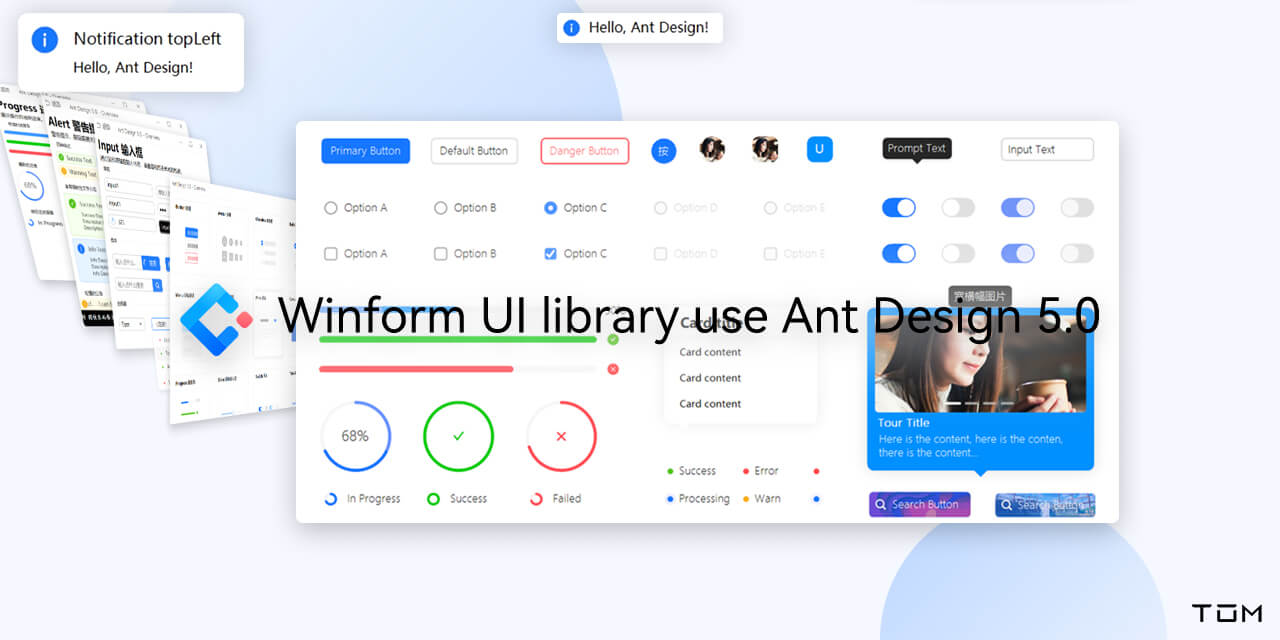
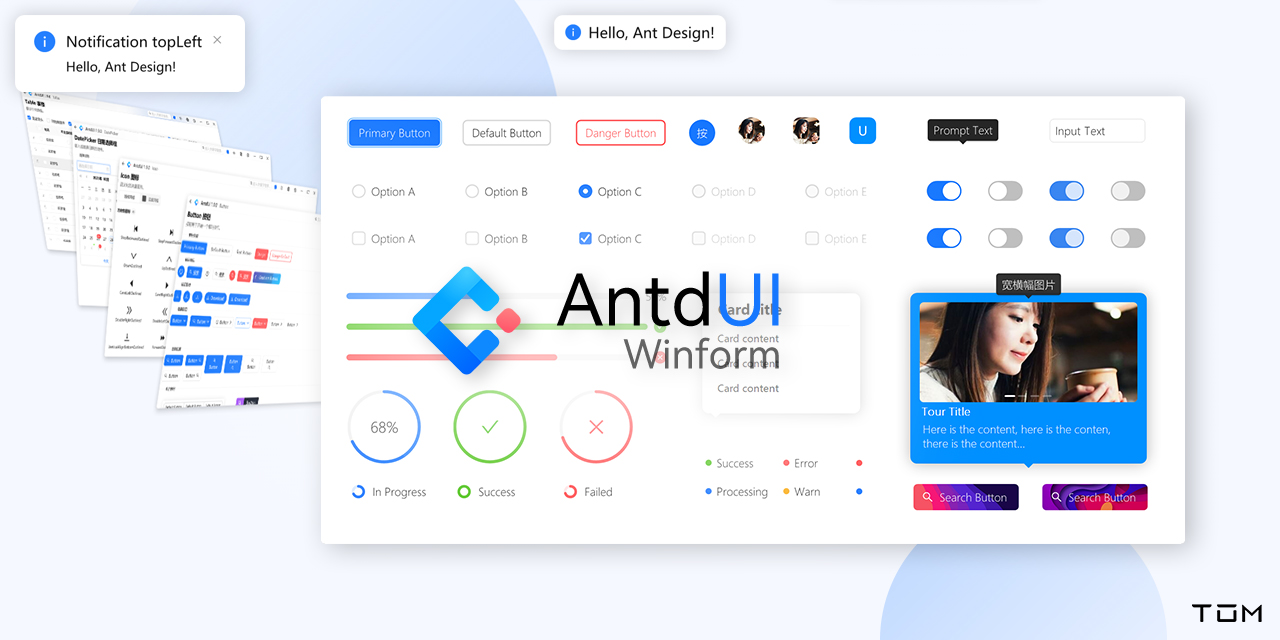
🦄 Beautiful AntdUI

diff --git a/profile/README.md b/profile/README.md
@@ -1,22 +1,25 @@
-![横幅](/profile/img/banner.png?raw=true)
+![Banner Dark](img/bannerdark.png?raw=true#gh-dark-mode-only)
+![Banner Light](img/banner.png?raw=true#gh-light-mode-only)
 
-## Ant Design UI
-**Winform 界面库** 使用 Ant Design 5.0 设计语言
+## AntdUI
+基于 Ant Design 设计语言的 WinForm UI 界面库，致力于将现代美观的前端设计风格带入到桌面应用程序中。采用纯GDI绘图，不需任何图片资源，全面支持AOT
 
-![demo](/profile/img/ant.jpg?raw=true)
+![demo](img/ant.jpg?raw=true)
 
 ### ✨特性
 
-- 🌈 纯GDI绘制，没有图片，支持AOT
-- 🎨 高质量绘图，高性能动画
-- 🚀 Winform上最阴影的阴影效果
-- 📦 无边框窗口，拥有原生窗口特性
-- 💎 3D翻转效果
-- 👚 主题配置
-- 🦜 SVG矢量图
-- 👓 DPI适配
+- 🌈 现代化的设计风格
+- 🎨 精细绘制与流畅动画
+- 🚀 在 Winform 上呈现最佳阴影效果
+- 📦 无边框窗口，保留原生窗口特性
+- 💎 3D翻转特效
+- 👚 主题自定义
+- 🦜 SVG 矢量图
+- 👓 DPI 自适应
+- 🌍 全球化支持
 
 ### 🍭关于
 - [v_132](https://blog.csdn.net/v_132) - CSDN
 - [Bilibili](https://www.bilibili.com/video/BV1ip4y1Z7xi) - 介绍视频
 - [17379620@qq.com](mailto:17379620@qq.com) - Mail
+- [328884096](https://qm.qq.com/cgi-bin/qm/qr?k=ZfuHy4LqYC57DYTWAUWkQD9EjdVfvx3y&jump_from=webapi&authKey=4sAgZN0XlFHx+4MW9PdkiGgg435QfKcQdu5lKi1Fp4PP0O+DL6NaKAcV8ybCLM97) - QQ群
